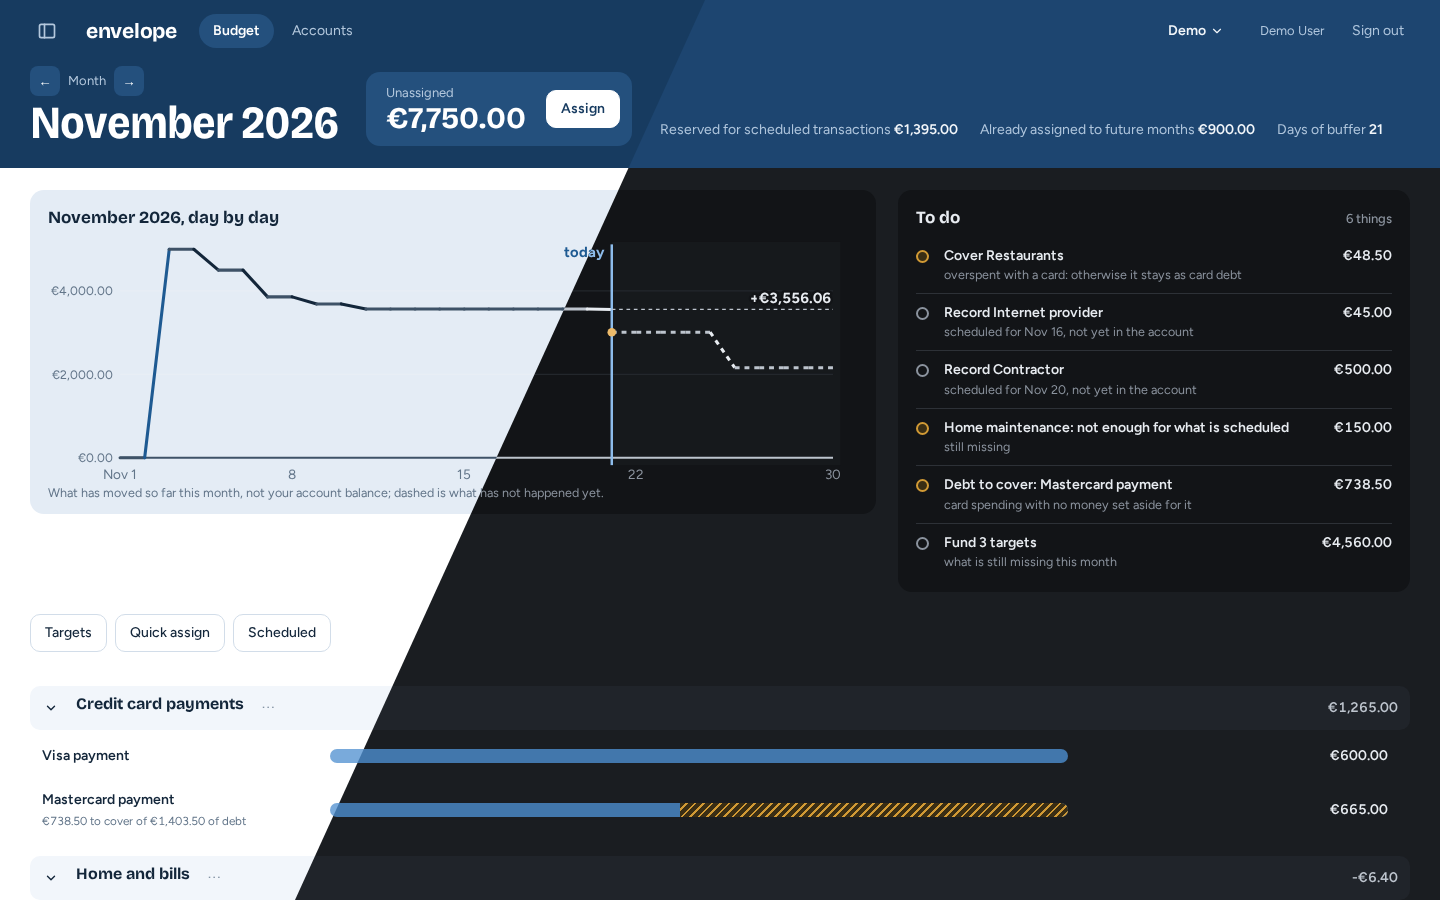
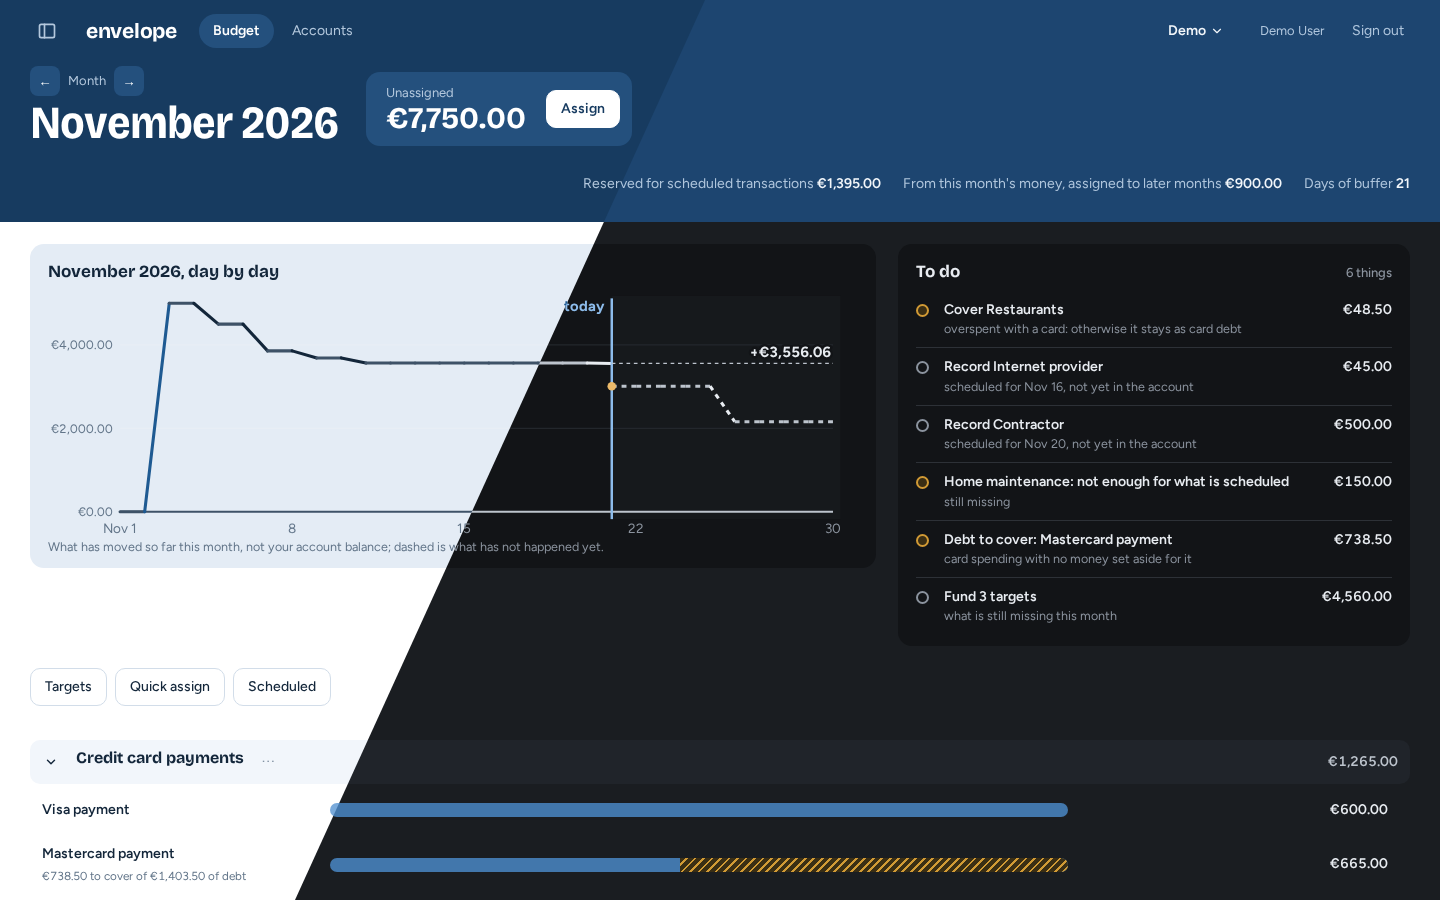
docs: refresh the budget month screenshots and the band's label
Refs #650

diff --git a/docs/ux/README.md b/docs/ux/README.md
@@ -34,7 +34,7 @@ In a workspace whose tax country is Italy (`IT`) only, the same form asks a brok
 
 ## Navigation structure
 
-- **Desktop.** A mariner band across the top of every screen: a button that opens the accounts panel (`#412`, [`accounts-panel.html`](mockups/accounts-panel.html)), the wordmark, primary navigation (Budget, Accounts, Portfolio), the workspace switcher and the user menu with settings. There is no persistent sidebar; the account list belongs to the Accounts screen by default — the accounts panel is a dismissible, closed-by-default detour from it, not a second place balances always show. The budget month adds its own second line to the band (month arrows, unassigned money with Assign, reserved, assigned to future months, days of buffer) and, under the band, the timeline, "To do", filter tabs (All, Underfunded, Overspent, With money) and the action toolbar (Summary, Targets, Scheduled, Quick assign, Move money, Undo). A category's detail opens in its own row; month-wide tools (group, summary, targets, scheduled, quick assign, move money, the target editor) open in a side sheet. Neither navigates to a URL of its own.
+- **Desktop.** A mariner band across the top of every screen: a button that opens the accounts panel (`#412`, [`accounts-panel.html`](mockups/accounts-panel.html)), the wordmark, primary navigation (Budget, Accounts, Portfolio), the workspace switcher and the user menu with settings. There is no persistent sidebar; the account list belongs to the Accounts screen by default — the accounts panel is a dismissible, closed-by-default detour from it, not a second place balances always show. The budget month adds its own second line to the band (month arrows, unassigned money with Assign, reserved, the money from this month assigned to later months, days of buffer) and, under the band, the timeline, "To do", filter tabs (All, Underfunded, Overspent, With money) and the action toolbar (Summary, Targets, Scheduled, Quick assign, Move money, Undo). A category's detail opens in its own row; month-wide tools (group, summary, targets, scheduled, quick assign, move money, the target editor) open in a side sheet. Neither navigates to a URL of its own.
 - **Phone.** A tab bar: Budget, Accounts, a central quick-entry button, Portfolio, More. A screen's own detail (a category, a transaction) opens full screen with a back link, never a side sheet. There is no group summary screen on the phone (design.md). The budget month's own tab bar (`#331`) has Budget, Accounts, the central quick-entry button (`#367`, hidden for a `read_only` member) and More — Portfolio has no screen yet, the same reasoning the desktop nav already applies to it.
 - **Sign-in.** Its own unauthenticated route, outside the band/tab-bar chrome entirely: before a session exists there is no workspace to navigate.
 - **Choosing a workspace.** "/" picks one in order: the URL already names one, otherwise the last workspace this browser remembers for the signed-in person (#343, a browser-side preference, forgotten if that workspace is no longer reachable), otherwise the only workspace when there is exactly one, otherwise the picker — shown only then, not on every sign-in.
